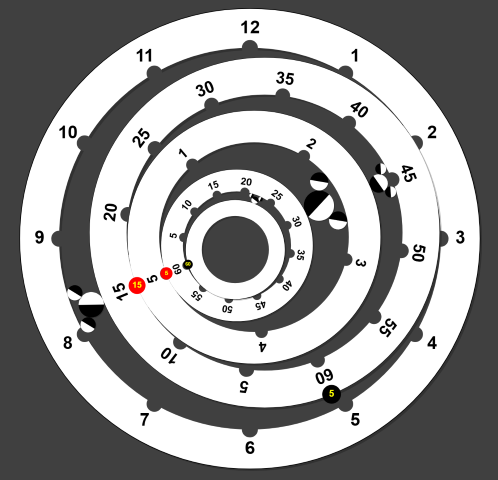
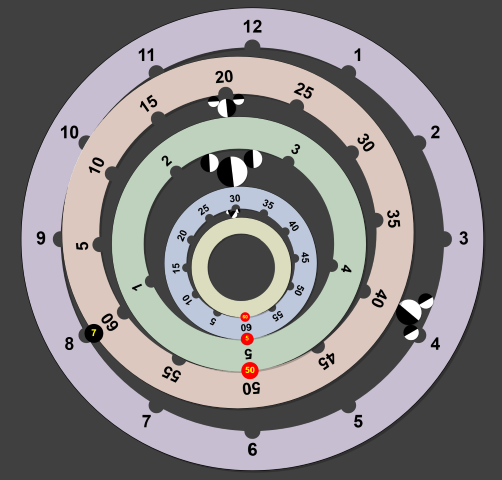
Dial numbers are now optional & updated steampunk screenshot

diff --git a/sketch.js b/sketch.js
@@ -93,6 +93,7 @@ var IsLoadingLocation = false; // true if waiting for location data (network or 
 var IsSearchingForOtherLocation = false; // true if the current location lookup is for the secondary spiral
 var DaySpiralShowMode = 'local'; // 'other', 'dual', 'local' - Default to local on start
 var EnableSpiralAnnotations = 1; // 1 = enabled, 0 = disabled
+var EnableDayspiralDialNumbers = 1; // 1 = enabled, 0 = disabled
 var HasSeenDualModeAnimation = false; // Ensures guided transition only plays once per session
 var ShowMoon = true; // Whether the Moon Phase display is active
 
@@ -578,6 +579,16 @@ function oneTimeInit() {
     updateUrlHash();
   });
 
+  // DaySpiral Show Dial Numbers Checkbox
+  var dialNumCheck = select('#check-dayspiral-dial-numbers');
+  if (dialNumCheck) dialNumCheck.changed(() => {
+    EnableDayspiralDialNumbers = dialNumCheck.checked() ? 1 : 0;
+    if (daySpiralRenderer && daySpiralRenderer.active) {
+      daySpiralRenderer.resize(width, height);
+    }
+    updateUrlHash();
+  });
+
   // DaySpiral Guided Transition Checkbox
   var transitionCheck = select('#check-dayspiral-guided-transition');
   if (transitionCheck) transitionCheck.changed(() => {
@@ -974,15 +985,17 @@ function parseUrlHash() {
   var daySpiralShowMode = params.get('daySpiralShowMode');
   var dualAnim = params.get('dualAnim');
   var enaAnn = params.get('enableSpiralAnnotations');
+  var enaDialNum = params.get('enableDayspiralDialNumbers');
 
-  if (daySpiralStyle || daySpiralTimeFormat || daySpiralShowHours !== null || dualAnim !== null || daySpiralShowMode || enaAnn !== null) {
+  if (daySpiralStyle || daySpiralTimeFormat || daySpiralShowHours !== null || dualAnim !== null || daySpiralShowMode || enaAnn !== null || enaDialNum !== null) {
     window._initialDaySpiralState = {
       style: daySpiralStyle || 'Dial',
       timeFormat: daySpiralTimeFormat || '12',
       showHours: daySpiralShowHours === '1', // Default false
       dualAnim: dualAnim !== '0', // Default true
       showMode: daySpiralShowMode || 'dual',
-      enableAnnotations: enaAnn !== '0' // Default true
+      enableAnnotations: enaAnn !== '0', // Default true
+      enableDialNumbers: enaDialNum !== '0' // Default true
     };
   }
 
@@ -1186,6 +1199,16 @@ function applyInitialState() {
       if (annCheck) annCheck.checked(EnableSpiralAnnotations === 1);
     }
 
+    if (state.enableDialNumbers !== undefined) {
+      EnableDayspiralDialNumbers = state.enableDialNumbers ? 1 : 0;
+      const dialNumCheck = select('#check-dayspiral-dial-numbers');
+      if (dialNumCheck) dialNumCheck.checked(EnableDayspiralDialNumbers === 1);
+      // Force renderer resize to apply dial size changes on load
+      if (typeof daySpiralRenderer !== 'undefined' && daySpiralRenderer.active) {
+        daySpiralRenderer.resize(width, height);
+      }
+    }
+
     if (state.showMode) {
       setDaySpiralShowMode(state.showMode);
     }
@@ -1323,7 +1346,7 @@ function updateUrlHash() {
   // Clear managed parameters to re-add them based on current state
   const managedKeys = [
     'lat', 'lon', 'tz', 'city', 'zen', 'focus', 'clock', 'gmt',
-    'daySpiralStyle', 'daySpiralTimeFormat', 'daySpiralShowMode', 'enableSpiralAnnotations',
+    'daySpiralStyle', 'daySpiralTimeFormat', 'daySpiralShowMode', 'enableSpiralAnnotations', 'enableDayspiralDialNumbers',
     'timeStyle', 'shapeHours', 'shapeMinutes', 'shapeSeconds',
     'tickScheme', 'rotation', 'demo', 'showHours', 'dali', 'dayNight',
     'otherLat', 'otherLon', 'otherTz', 'otherCity',
@@ -1430,6 +1453,11 @@ function updateUrlHash() {
     // Add DaySpiral annotations setting
     if (typeof EnableSpiralAnnotations !== 'undefined' && EnableSpiralAnnotations === 0) {
       params.set('enableSpiralAnnotations', '0');
+    }
+
+    // Add DaySpiral dial numbers setting
+    if (typeof EnableDayspiralDialNumbers !== 'undefined' && EnableDayspiralDialNumbers === 0) {
+      params.set('enableDayspiralDialNumbers', '0');
     }
   }
 

diff --git a/js/renderers/DaySpiralRenderer.js b/js/renderers/DaySpiralRenderer.js
@@ -204,14 +204,20 @@ class DaySpiralRenderer extends ClockRenderer {
         let radius = minDim / 2;
 
         this.clockDiameter = radius * 1.912;
-        this.diameter = this.clockDiameter;
         this.faceDiameter = radius * 1.66;
         this.numbersRadius = radius * 0.893;
 
         // Spiral settings default (Dial)
-        // Spiral settings default (Dial)
         let startRadius = radius * 0.40;
         let endRadius = radius * 0.74;
+
+        if (typeof EnableDayspiralDialNumbers !== 'undefined' && EnableDayspiralDialNumbers === 0) {
+            // When dial numbers are turned off, we have more room to expand
+            startRadius = radius * 0.45;
+            endRadius = radius * 0.90;
+            // Expand the gray background to fit the larger spiral with margin
+            this.faceDiameter = radius * 1.98;
+        }
 
         // Check if we're in dual-location mode to set visual weights
         const isDualMode = (typeof locManager !== 'undefined' && locManager.hasOtherLocation());
@@ -232,6 +238,7 @@ class DaySpiralRenderer extends ClockRenderer {
         } else {
             // Dial
             let nTurns = 2;
+
             let deltaRadiusPerTurn = (endRadius - startRadius) / nTurns;
 
             this.singleModeStrokeWeight = deltaRadiusPerTurn * 0.66;
@@ -444,6 +451,8 @@ class DaySpiralRenderer extends ClockRenderer {
     }
 
     drawHourLabels() {
+        if (typeof EnableDayspiralDialNumbers !== 'undefined' && EnableDayspiralDialNumbers === 0) return;
+
         noStroke();
         fill(this.hourDigitColor); // color of hour digits
         textSize(this.fontSize);
@@ -876,6 +885,7 @@ class DaySpiralRenderer extends ClockRenderer {
         // 2. In other views (like "Other Only"), respect the toggle.
         const isDualView = (showMode === 'dual');
         if (!isDualView && !this.hoursVisible) return;
+        if (typeof EnableDayspiralDialNumbers !== 'undefined' && EnableDayspiralDialNumbers === 0) return;
 
         fill(200, 255, 255); // Light Cyan for inner spiral label
         const isSingleRendering = (showMode !== 'dual');
@@ -974,6 +984,7 @@ class DaySpiralRenderer extends ClockRenderer {
         // 2. In other views (Single, Local Only, Other Only), respect the toggle.
         const isDualView = (showMode === 'dual' && this.isDualLocationMode);
         if (!isDualView && !this.hoursVisible) return;
+        if (typeof EnableDayspiralDialNumbers !== 'undefined' && EnableDayspiralDialNumbers === 0) return;
 
         fill(255, 235, 120); // Yellow for outer spiral
         noStroke();

diff --git a/index.html b/index.html
@@ -272,6 +272,10 @@
               <label for="check-dayspiral-annotations">Enable Sun & Moon Annotations:</label>
               <input type="checkbox" id="check-dayspiral-annotations" checked>
             </div>
+            <div class="form-row">
+              <label for="check-dayspiral-dial-numbers">Show Dial Numbers:</label>
+              <input type="checkbox" id="check-dayspiral-dial-numbers" checked>
+            </div>
           </div>
           <hr class="separator">
           <div class="settings-section">
